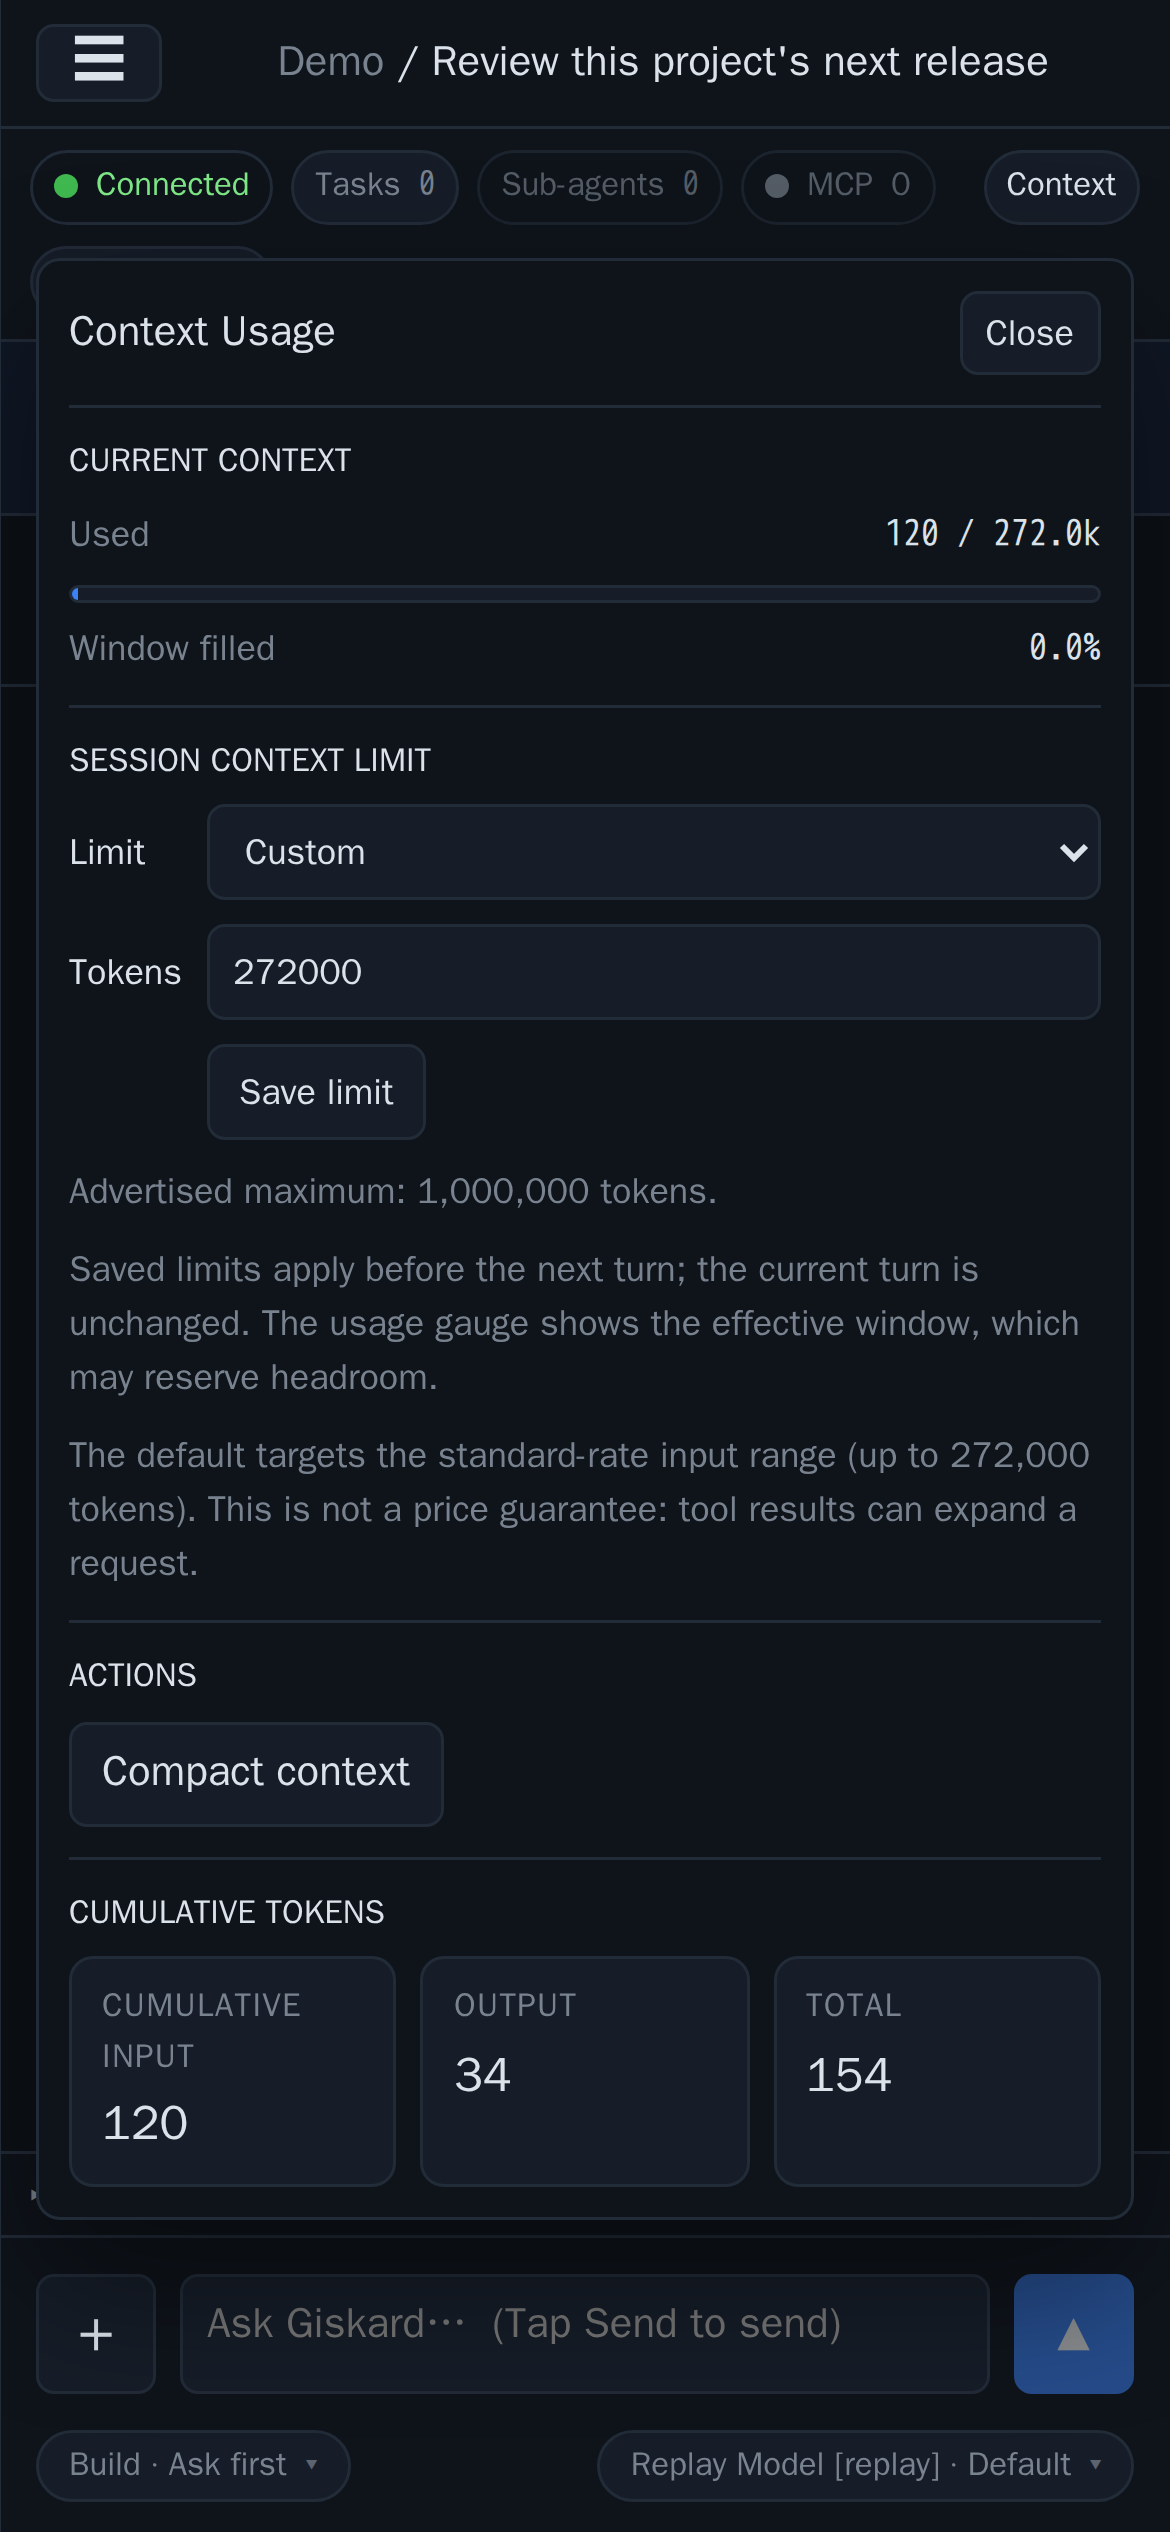
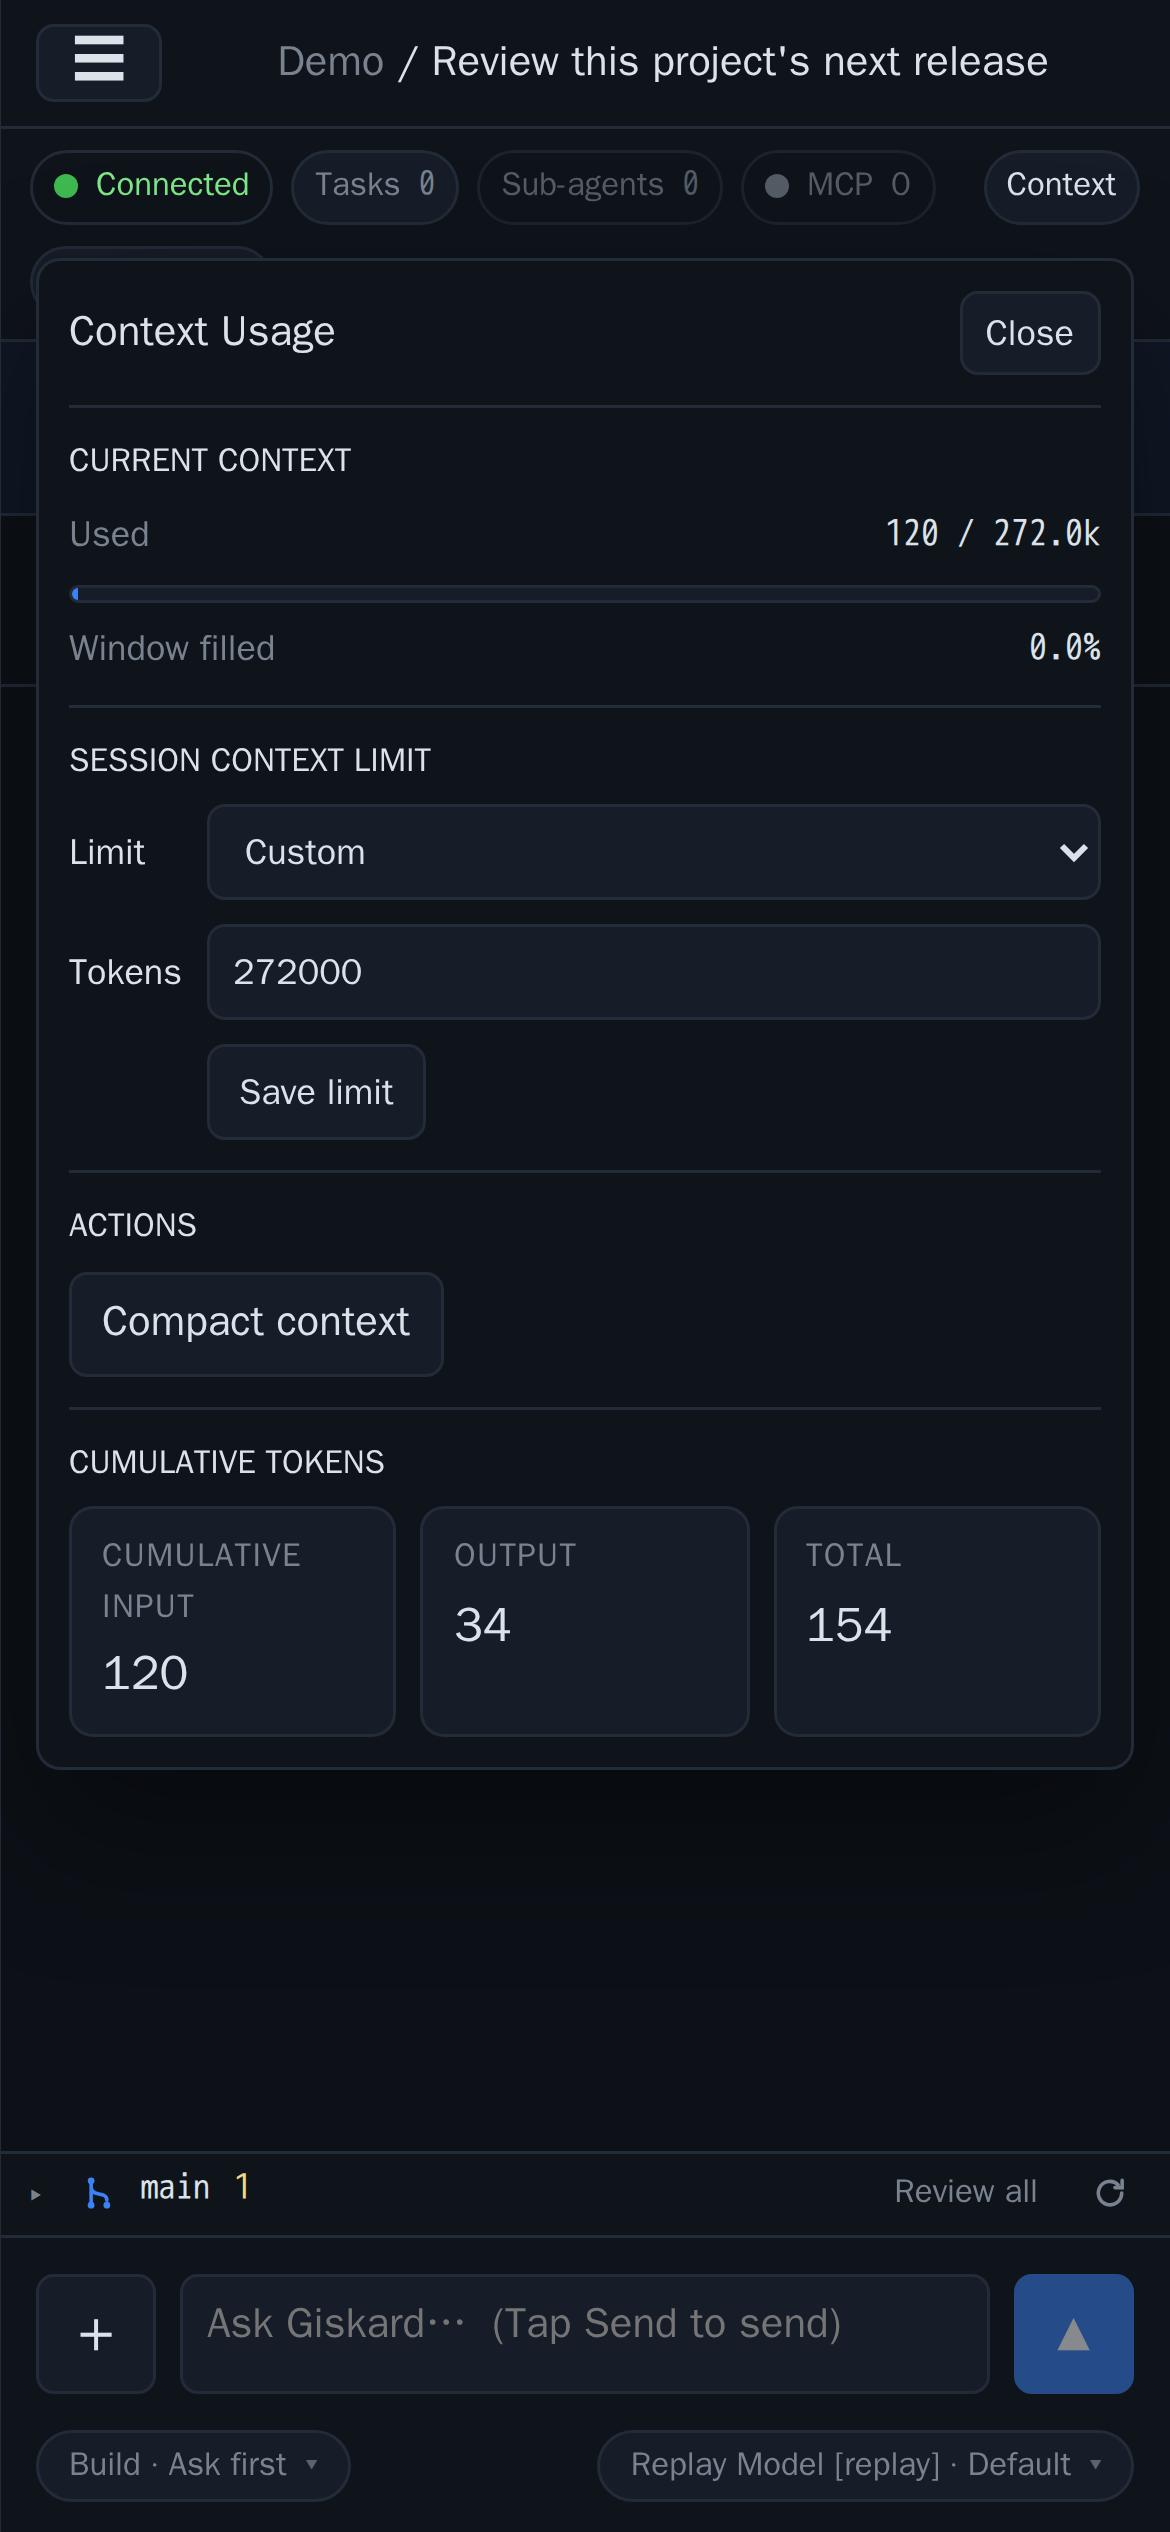
Use native Codex context limits in session controls

diff --git a/crates/giskard-server/static/app.js b/crates/giskard-server/static/app.js
@@ -11990,9 +11990,9 @@ function renderContextWindowEditor() {
   const readOnly = state.threadReadOnly || managedThreadReadOnly();
   const knownMaximum = Number.isSafeInteger(config.advertised_maximum) && config.advertised_maximum > 0;
   const configurable = config.can_configure && knownMaximum && !readOnly;
-  const explanation = readOnly ? "This thread is read-only." : !knownMaximum ?
-    "The provider has not advertised a maximum; custom limits are unavailable." :
-    !config.can_configure ? "This provider does not support session context limits." : "";
+  const explanation = readOnly ? "This thread is read-only." : !config.can_configure ?
+    "Session context limits are unavailable for this thread." : !knownMaximum ?
+    "No configurable maximum is available for this model." : "";
   const custom = config.override_window !== null && config.override_window !== undefined;
   host.insertAdjacentHTML("beforeend", `
     <div class="context-limit-controls">
@@ -12005,8 +12005,7 @@ function renderContextWindowEditor() {
       <input id="contextWindowValue" type="number" inputmode="numeric" step="1" min="${Number(config.default_window)}" max="${Number(config.advertised_maximum || config.default_window)}" value="${Number(config.selected_window)}" ${configurable && custom ? "" : "disabled"}>
       <button id="contextWindowSave" class="btn" type="button" ${configurable ? "" : "disabled"}>Save limit</button>
     </div>
-    <div class="muted context-limit-note">Advertised maximum: ${knownMaximum ? Number(config.advertised_maximum).toLocaleString() + " tokens" : "unknown"}. ${escapeHtml(explanation)}</div>
-    <div class="muted context-limit-note">Saved limits apply before the next turn; the current turn is unchanged. The usage gauge shows the effective window, which may reserve headroom.</div>
+    <div class="muted context-limit-note" ${explanation ? "" : "hidden"}>${escapeHtml(explanation)}</div>
     <div id="contextWindowPremium" class="context-limit-warning" hidden></div>
     <div id="contextWindowStatus" class="context-limit-note" role="status"></div>`);
   const update = () => {
@@ -12014,11 +12013,9 @@ function renderContextWindowEditor() {
     const value = $("contextWindowMode").value === "default" ? config.default_window : Number($("contextWindowValue").value);
     const warning = $("contextWindowPremium");
     const above = config.non_premium_window && value > config.non_premium_window;
-    warning.hidden = !config.non_premium_window;
+    warning.hidden = !above;
     warning.textContent = above ?
-      `Above ${Number(config.non_premium_window).toLocaleString()} input tokens, premium long-context rates can apply to the full request.` :
-      `The default targets the standard-rate input range (up to ${Number(config.non_premium_window || 0).toLocaleString()} tokens).`;
-    if (config.non_premium_window) warning.textContent += " This is not a price guarantee: tool results can expand a request.";
+      `Above ${Number(config.non_premium_window).toLocaleString()} tokens, long-context rates apply to the full request.` : "";
   };
   $("contextWindowMode").onchange = update;
   $("contextWindowValue").oninput = update;

diff --git a/tests/e2e/tests/context-window.spec.ts b/tests/e2e/tests/context-window.spec.ts
@@ -44,8 +44,7 @@ test("context edits survive usage updates without another catalog request", asyn
   await expect(input).toBeFocused();
   await expect(input).toHaveValue("500000");
   await expect(page.locator("#usageCurrentValues")).toHaveText("12.3k / 258.4k");
-  await expect(page.locator("#contextWindowPremium")).toContainText("premium long-context rates");
-  await expect(page.locator("#contextWindowPremium")).toContainText("not a price guarantee");
+  await expect(page.locator("#contextWindowPremium")).toContainText("long-context rates");
   expect(reads).toBe(1);
   await page.locator("#contextWindowSave").click();
   await expect(page.locator("#contextWindowStatus")).toContainText("Saved for the next turn");
@@ -88,7 +87,7 @@ test("unknown maximum and read-only sessions cannot edit limits", async ({ page 
   await createThread(page);
   await openMenu(page);
   await expect(page.locator("#contextWindowSave")).toBeDisabled();
-  await expect(page.locator("#contextWindowSettings")).toContainText("has not advertised a maximum");
+  await expect(page.locator("#contextWindowSettings")).toContainText("Session context limits are unavailable");
   await page.locator("#usageClose").click();
   config = { ...fixture, can_configure:false };
   // Exercise the browser's read-only guard even if a stale response says it is configurable.

diff --git a/crates/giskard-harness-codex/src/lib.rs b/crates/giskard-harness-codex/src/lib.rs
@@ -2562,6 +2562,37 @@ async fn default_model_provider(
     Ok(non_empty(config.model_provider).unwrap_or_else(|| CODEX_DEFAULT_PROVIDER.to_string()))
 }
 
+// Keep catalog strings open-ended: newer native modalities and agent versions must not
+// invalidate the whole model list when the generated SDK's enums lag behind.
+#[derive(serde::Deserialize)]
+#[serde(rename_all = "camelCase")]
+struct NativeModelPage {
+    data: Vec<NativeCatalogModel>,
+    #[serde(default)]
+    next_cursor: Option<String>,
+}
+
+#[derive(serde::Deserialize)]
+#[serde(rename_all = "camelCase")]
+struct NativeCatalogModel {
+    #[serde(default)]
+    id: String,
+    #[serde(default)]
+    model: String,
+    #[serde(default)]
+    display_name: String,
+    #[serde(default)]
+    hidden: bool,
+    #[serde(default)]
+    is_default: bool,
+    default_reasoning_effort: codex_codes::ReasoningEffort,
+    #[serde(default)]
+    supported_reasoning_efforts: Vec<codex_codes::ReasoningEffortOption>,
+    #[serde(default)]
+    context_window: Option<u64>,
+    #[serde(default)]
+    max_context_window: Option<u64>,
+}
 /// List the models Codex advertises over the app-server `model/list` RPC, mapped to Giskard
 /// [`ModelDescriptor`]s so the picker can show Codex's friendly `display_name` instead of raw
 /// model ids.
@@ -2572,9 +2603,9 @@ async fn default_model_provider(
 /// built-in providers carry no `base_url` to discover against, with nothing in the picker at all.
 ///
 /// So the catalog is attributed to the provider Codex itself routes to, read from the same
-/// `config/read` that supplies the provider table. Codex omits the context window from this RPC,
-/// so descriptors still use the conservative default; these entries size no gauge until the
-/// harness reports a real window at turn time.
+/// `config/read` that supplies the provider table. Current Codex versions include the normal
+/// session window and the largest configurable window. Older versions may omit both, leaving the
+/// conservative default until another catalog source or runtime usage supplies a capacity.
 async fn handle_list_models(
     client: &mut dyn CodexTransport,
     cwd: String,
@@ -2590,7 +2621,7 @@ async fn handle_list_models(
             include_hidden: None,
             limit: None,
         };
-        let page: codex_codes::ModelListResponse = codex_request(
+        let page: NativeModelPage = codex_request(
             client,
             CodexOperationContext::new("list_models"),
             codex_codes::protocol::methods::MODEL_LIST,
@@ -2615,8 +2646,8 @@ async fn handle_list_models(
 
 /// Map a Codex `model/list` entry to a Giskard [`ModelDescriptor`] under `provider`. See
 /// [`handle_list_models`] for where that provider comes from — the entry itself names none — and
-/// why the context window is conservative.
-fn map_model(model: codex_codes::Model, provider: &str) -> ModelDescriptor {
+/// how its context capacity is mapped.
+fn map_model(model: NativeCatalogModel, provider: &str) -> ModelDescriptor {
     // `model` is the wire slug used in a ModelRef; `id` is the preset id. Prefer the slug, but fall
     // back to the id if an older/edge payload leaves it empty.
     let id = if model.model.is_empty() {
@@ -2641,11 +2672,20 @@ fn map_model(model: codex_codes::Model, provider: &str) -> ModelDescriptor {
     if reasoning_efforts.is_empty() && default_reasoning_effort != "none" {
         reasoning_efforts.push(default_reasoning_effort);
     }
+    let context_window = model
+        .context_window
+        .and_then(|value| u32::try_from(value).ok())
+        .filter(|value| *value > 0);
+    let advertised_context_window = model
+        .max_context_window
+        .and_then(|value| u32::try_from(value).ok())
+        .filter(|value| *value > 0)
+        .or(context_window);
     ModelDescriptor {
         provider: provider.to_string(),
         model: id,
-        context_window: ModelDescriptor::CONSERVATIVE_CONTEXT_WINDOW,
-        advertised_context_window: None,
+        context_window: context_window.unwrap_or(ModelDescriptor::CONSERVATIVE_CONTEXT_WINDOW),
+        advertised_context_window,
         supports_reasoning_effort: !reasoning_efforts.is_empty(),
         reasoning_efforts,
         display_name,
@@ -3293,7 +3333,9 @@ mod tests {
                                     { "reasoningEffort": "high", "description": "" }
                                 ],
                                 "defaultReasoningEffort": "medium",
-                                "isDefault": true
+                                "isDefault": true,
+                                "contextWindow": 272000,
+                                "maxContextWindow": 872000
                             },
                             {
                                 "id": "gpt-5.5-mini",
@@ -3303,7 +3345,8 @@ mod tests {
                                 "hidden": false,
                                 "supportedReasoningEfforts": [],
                                 "defaultReasoningEffort": "medium",
-                                "isDefault": false
+                                "isDefault": false,
+                                "contextWindow": 128000
                             },
                             {
                                 "id": "internal-secret",
@@ -5022,11 +5065,8 @@ mod tests {
         // Codex routes to — `openai` here, the built-in default, since this config sets no
         // `model_provider`. Without that a stock setup has nothing to put in the picker.
         assert_eq!(flagship.provider, "openai");
-        // The context window is still absent from this RPC.
-        assert_eq!(
-            flagship.context_window,
-            ModelDescriptor::CONSERVATIVE_CONTEXT_WINDOW
-        );
+        assert_eq!(flagship.context_window, 272_000);
+        assert_eq!(flagship.advertised_context_window, Some(872_000));
 
         let mini = &models[1];
         assert_eq!(mini.model, "gpt-5.5-mini");
@@ -5036,6 +5076,8 @@ mod tests {
             "a non-none default is the sole effort when alternatives are empty"
         );
         assert_eq!(mini.reasoning_efforts, vec!["medium"]);
+        assert_eq!(mini.context_window, 128_000);
+        assert_eq!(mini.advertised_context_window, Some(128_000));
 
         assert!(
             controller

diff --git a/docs/session-context-limits.md b/docs/session-context-limits.md
@@ -26,5 +26,7 @@ maximum. An already-loaded child keeps the configuration it started with.
 
 Changing effort or service tier preserves the override. Changing provider or model clears it so a
 limit chosen against one advertised capacity cannot silently carry to another. If discovery later
-shrinks the maximum, the applied selection is clamped to the current bound. A model with no known
-advertised maximum can use its conservative/default limit but cannot accept a custom value.
+shrinks the maximum, the applied selection is clamped to the current bound. Codex's native catalog
+supplies `contextWindow` as the normal session limit and `maxContextWindow` as the configurable
+ceiling; when only `contextWindow` is present it serves as both values. A model with neither can
+use its conservative/default limit but cannot accept a custom value.
